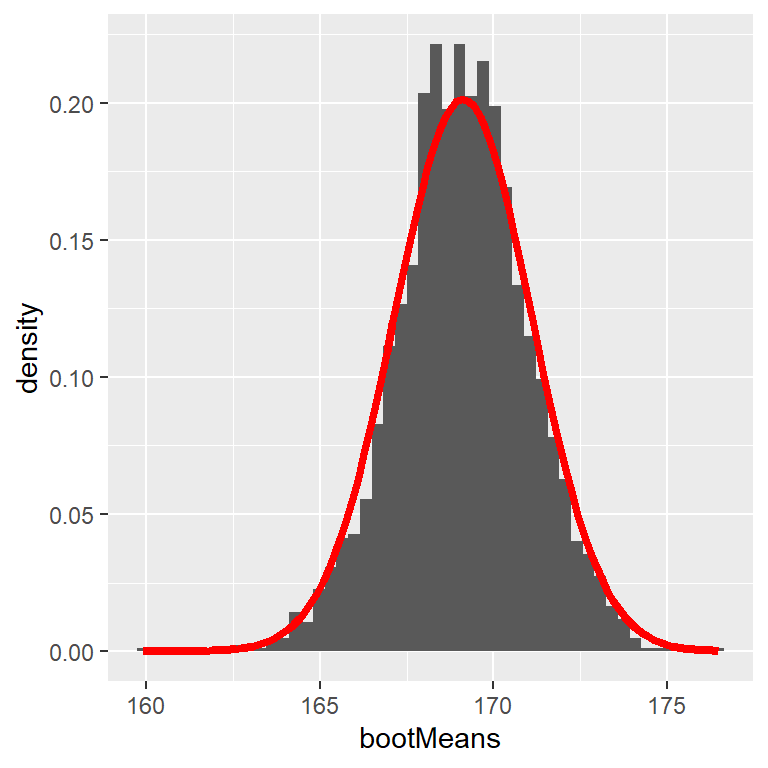
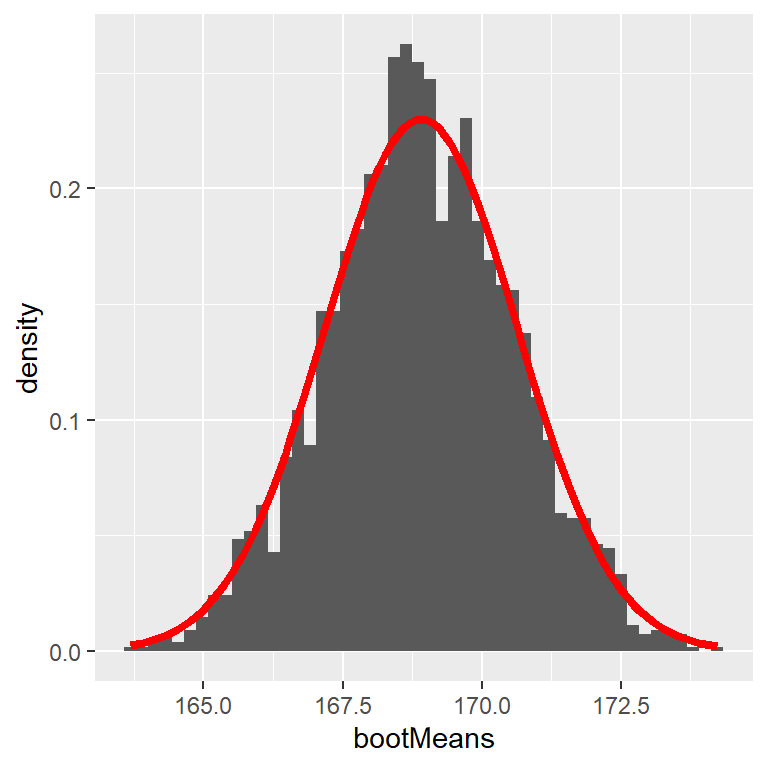
update docs after publishing week3

diff --git a/docs/W6_Sampling.html b/docs/W6_Sampling.html
@@ -288,24 +288,24 @@ Dr.&nbsp;Lea Hildebrandt
 </thead>
 <tbody>
 <tr class="odd">
-<td style="text-align: right;">168.370</td>
-<td style="text-align: right;">11.505478</td>
+<td style="text-align: right;">168.024</td>
+<td style="text-align: right;">9.262555</td>
 </tr>
 <tr class="even">
-<td style="text-align: right;">169.050</td>
-<td style="text-align: right;">9.484321</td>
+<td style="text-align: right;">169.128</td>
+<td style="text-align: right;">9.163348</td>
 </tr>
 <tr class="odd">
-<td style="text-align: right;">168.840</td>
-<td style="text-align: right;">9.853063</td>
+<td style="text-align: right;">168.784</td>
+<td style="text-align: right;">11.519112</td>
 </tr>
 <tr class="even">
-<td style="text-align: right;">168.274</td>
-<td style="text-align: right;">9.228567</td>
+<td style="text-align: right;">169.102</td>
+<td style="text-align: right;">11.602155</td>
 </tr>
 <tr class="odd">
-<td style="text-align: right;">166.854</td>
-<td style="text-align: right;">12.152151</td>
+<td style="text-align: right;">170.232</td>
+<td style="text-align: right;">10.445220</td>
 </tr>
 </tbody>
 </table>
@@ -651,14 +651,14 @@ This value is the amount of time that we should allow - <em>given our assumption
 <span id="cb10-14"><a></a><span class="fu">print</span>(cutoff)</span></code><button title="Copy to Clipboard" class="code-copy-button"><i class="bi"></i></button></pre></div>
 <div class="cell-output cell-output-stdout">
 <pre><code>     99% 
-8.847807 </code></pre>
+8.873147 </code></pre>
 </div>
 </div>
 </section>
 <section id="using-monte-carlo-simulations-4" class="slide level2">
 <h2>Using Monte Carlo Simulations 4</h2>
 
-<img data-src="W6_Sampling_files/figure-revealjs/unnamed-chunk-14-1.png" width="960" class="r-stretch"><p>This shows that the 99th percentile of the finishing time distribution falls at 8.7458473 minutes, meaning that if we were to give that much time for the quiz, then we expect that in 99% of quizzes, every student would finish.</p>
+<img data-src="W6_Sampling_files/figure-revealjs/unnamed-chunk-14-1.png" width="960" class="r-stretch"><p>This shows that the 99th percentile of the finishing time distribution falls at 8.8544283 minutes, meaning that if we were to give that much time for the quiz, then we expect that in 99% of quizzes, every student would finish.</p>
 <aside class="notes">
 <p>Assumptions matter, otherwise results wrong! (We assumed: normal dist w/ particular mean and SD). Here assumptions certainly wrong –&gt; elapsed time not normal</p>
 <style type="text/css">
@@ -714,11 +714,11 @@ This value is the amount of time that we should allow - <em>given our assumption
 <span id="cb12-21"><a></a></span>
 <span id="cb12-22"><a></a>SEM_standard</span></code><button title="Copy to Clipboard" class="code-copy-button"><i class="bi"></i></button></pre></div>
 <div class="cell-output cell-output-stdout">
-<pre><code>[1] 1.982035</code></pre>
+<pre><code>[1] 1.733557</code></pre>
 </div>
 <div class="sourceCode cell-code" id="cb14"><pre class="sourceCode numberSource r number-lines code-with-copy"><code class="sourceCode r"><span id="cb14-1"><a></a>SEM_bootstrap</span></code><button title="Copy to Clipboard" class="code-copy-button"><i class="bi"></i></button></pre></div>
 <div class="cell-output cell-output-stdout">
-<pre><code>[1] 1.898898</code></pre>
+<pre><code>[1] 1.66768</code></pre>
 </div>
 </div>
 </div><div class="column">
@@ -799,7 +799,7 @@ Model-based procedures (like most statistical tests we will cover in this class)
 </div>
 <div class="sourceCode cell-code" id="cb20"><pre class="sourceCode numberSource r number-lines code-with-copy"><code class="sourceCode r"><span id="cb20-1"><a></a><span class="fu">sd</span>(mean_bootstrap_20)</span></code><button title="Copy to Clipboard" class="code-copy-button"><i class="bi"></i></button></pre></div>
 <div class="cell-output cell-output-stdout">
-<pre><code>[1] 0.4671166</code></pre>
+<pre><code>[1] 0.4222697</code></pre>
 </div>
 </div>
 <p>We can conclude that the SEM is smaller with a larger sample size, which means we can be more certain about our estimate! (We already knew this from the <span class="math inline">\(\sqrt{n}\)</span> in the denominator of the SE formular but it’s nice to see it confirmed.)</p>

diff --git a/docs/W5_Probability.html b/docs/W5_Probability.html
@@ -740,17 +740,17 @@ div.cell-output-stdout {
 <div class="sourceCode cell-code" id="cb1"><pre class="sourceCode numberSource r number-lines code-with-copy"><code class="sourceCode r"><span id="cb1-1"><a></a><span class="co">#1</span></span>
 <span id="cb1-2"><a></a><span class="fu">runif</span>(<span class="at">n=</span><span class="dv">1</span>) <span class="co">#default parameters are already set to min=0 and max=1</span></span></code><button title="Copy to Clipboard" class="code-copy-button"><i class="bi"></i></button></pre></div>
 <div class="cell-output cell-output-stdout">
-<pre><code>[1] 0.1185616</code></pre>
+<pre><code>[1] 0.6986218</code></pre>
 </div>
 <div class="sourceCode cell-code" id="cb3"><pre class="sourceCode numberSource r number-lines code-with-copy"><code class="sourceCode r"><span id="cb3-1"><a></a><span class="co">#2</span></span>
 <span id="cb3-2"><a></a><span class="fu">runif</span>(<span class="at">n=</span><span class="dv">100</span>, <span class="at">max=</span><span class="dv">10</span>) <span class="sc">%&gt;%</span> <span class="fu">mean</span>()</span></code><button title="Copy to Clipboard" class="code-copy-button"><i class="bi"></i></button></pre></div>
 <div class="cell-output cell-output-stdout">
-<pre><code>[1] 4.967136</code></pre>
+<pre><code>[1] 5.010572</code></pre>
 </div>
 <div class="sourceCode cell-code" id="cb5"><pre class="sourceCode numberSource r number-lines code-with-copy"><code class="sourceCode r"><span id="cb5-1"><a></a><span class="co">#3</span></span>
 <span id="cb5-2"><a></a><span class="fu">sample</span>(<span class="dv">1</span><span class="sc">:</span><span class="dv">10</span>, <span class="at">size=</span><span class="dv">50</span>, <span class="at">replace=</span>T) <span class="sc">%&gt;%</span> <span class="fu">mean</span>()</span></code><button title="Copy to Clipboard" class="code-copy-button"><i class="bi"></i></button></pre></div>
 <div class="cell-output cell-output-stdout">
-<pre><code>[1] 5.12</code></pre>
+<pre><code>[1] 5.08</code></pre>
 </div>
 <div class="sourceCode cell-code" id="cb7"><pre class="sourceCode numberSource r number-lines code-with-copy"><code class="sourceCode r"><span id="cb7-1"><a></a><span class="co">#4</span></span>
 <span id="cb7-2"><a></a><span class="fu">sample</span>(<span class="fu">c</span>(<span class="st">"Anna"</span>, <span class="st">"Barbara"</span>, <span class="st">"Christina"</span>, <span class="st">"Dana"</span>), <span class="at">size=</span><span class="dv">1</span>)</span></code><button title="Copy to Clipboard" class="code-copy-button"><i class="bi"></i></button></pre></div>
@@ -760,7 +760,7 @@ div.cell-output-stdout {
 <div class="sourceCode cell-code" id="cb9"><pre class="sourceCode numberSource r number-lines code-with-copy"><code class="sourceCode r"><span id="cb9-1"><a></a><span class="co">#5</span></span>
 <span id="cb9-2"><a></a><span class="fu">sample</span>(<span class="fu">c</span>(<span class="st">"Anna"</span>, <span class="st">"Barbara"</span>, <span class="st">"Christina"</span>, <span class="st">"Dana"</span>)) <span class="co">#by default, sample draws all elements in random order</span></span></code><button title="Copy to Clipboard" class="code-copy-button"><i class="bi"></i></button></pre></div>
 <div class="cell-output cell-output-stdout">
-<pre><code>[1] "Christina" "Dana"      "Anna"      "Barbara"  </code></pre>
+<pre><code>[1] "Dana"      "Christina" "Anna"      "Barbara"  </code></pre>
 </div>
 </div>
 </div>

diff --git a/docs/W3_DataWranglingR.html b/docs/W3_DataWranglingR.html
@@ -899,16 +899,16 @@ Also, there are slight differences between <code>&lt;-</code> and <code>=</code>
 <pre><code># A tibble: 10 × 2
     year decade
    &lt;dbl&gt;  &lt;dbl&gt;
- 1  1882   1880
- 2  1936   1930
- 3  1950   1950
- 4  1955   1950
- 5  1959   1950
- 6  1960   1960
- 7  1970   1970
- 8  1980   1980
- 9  1989   1980
-10  2014   2010</code></pre>
+ 1  1903   1900
+ 2  1905   1900
+ 3  1906   1900
+ 4  1916   1910
+ 5  1927   1920
+ 6  1954   1950
+ 7  1957   1950
+ 8  1974   1970
+ 9  1999   1990
+10  2007   2000</code></pre>
 </div>
 </div>
 </div>
@@ -2069,7 +2069,7 @@ $ BlockNumber     &lt;dbl&gt; 1, 1, 1, 1, 1, 1, 1, 1, 1, 1, 1, 1, 1, 1, 1, 1, 1,
         }
           var localhostRegex = new RegExp(/^(?:http|https):\/\/localhost\:?[0-9]*\//);
           var mailtoRegex = new RegExp(/^mailto:/);
-            var filterRegex = new RegExp('/' + window.location.host + '/');
+            var filterRegex = new RegExp("https:\/\/Hillea\.github\.io\/biostats\/");
           var isInternal = (href) => {
               return filterRegex.test(href) || localhostRegex.test(href) || mailtoRegex.test(href);
           }

diff --git a/docs/W13_RMarkdown.html b/docs/W13_RMarkdown.html
@@ -375,7 +375,7 @@ div.cell-output-stdout {
 <span id="cb6-2"><a></a>data = tibble(rt = rnorm(n=100, mean=.5, sd=.2))</span>
 <span id="cb6-3"><a></a>```</span>
 <span id="cb6-4"><a></a>We observed an average reaction time of `r data %&gt;% pull(rt) %&gt;% mean() %&gt;% signif(digits=3)` seconds.</span></code><button title="Copy to Clipboard" class="code-copy-button"><i class="bi"></i></button></pre></div>
-<p>We observed an average reaction time of 0.511 seconds.</p>
+<p>We observed an average reaction time of 0.488 seconds.</p>
 <ol start="3" type="1">
 <li>Knit the document and open the output with a double click.</li>
 </ol>
